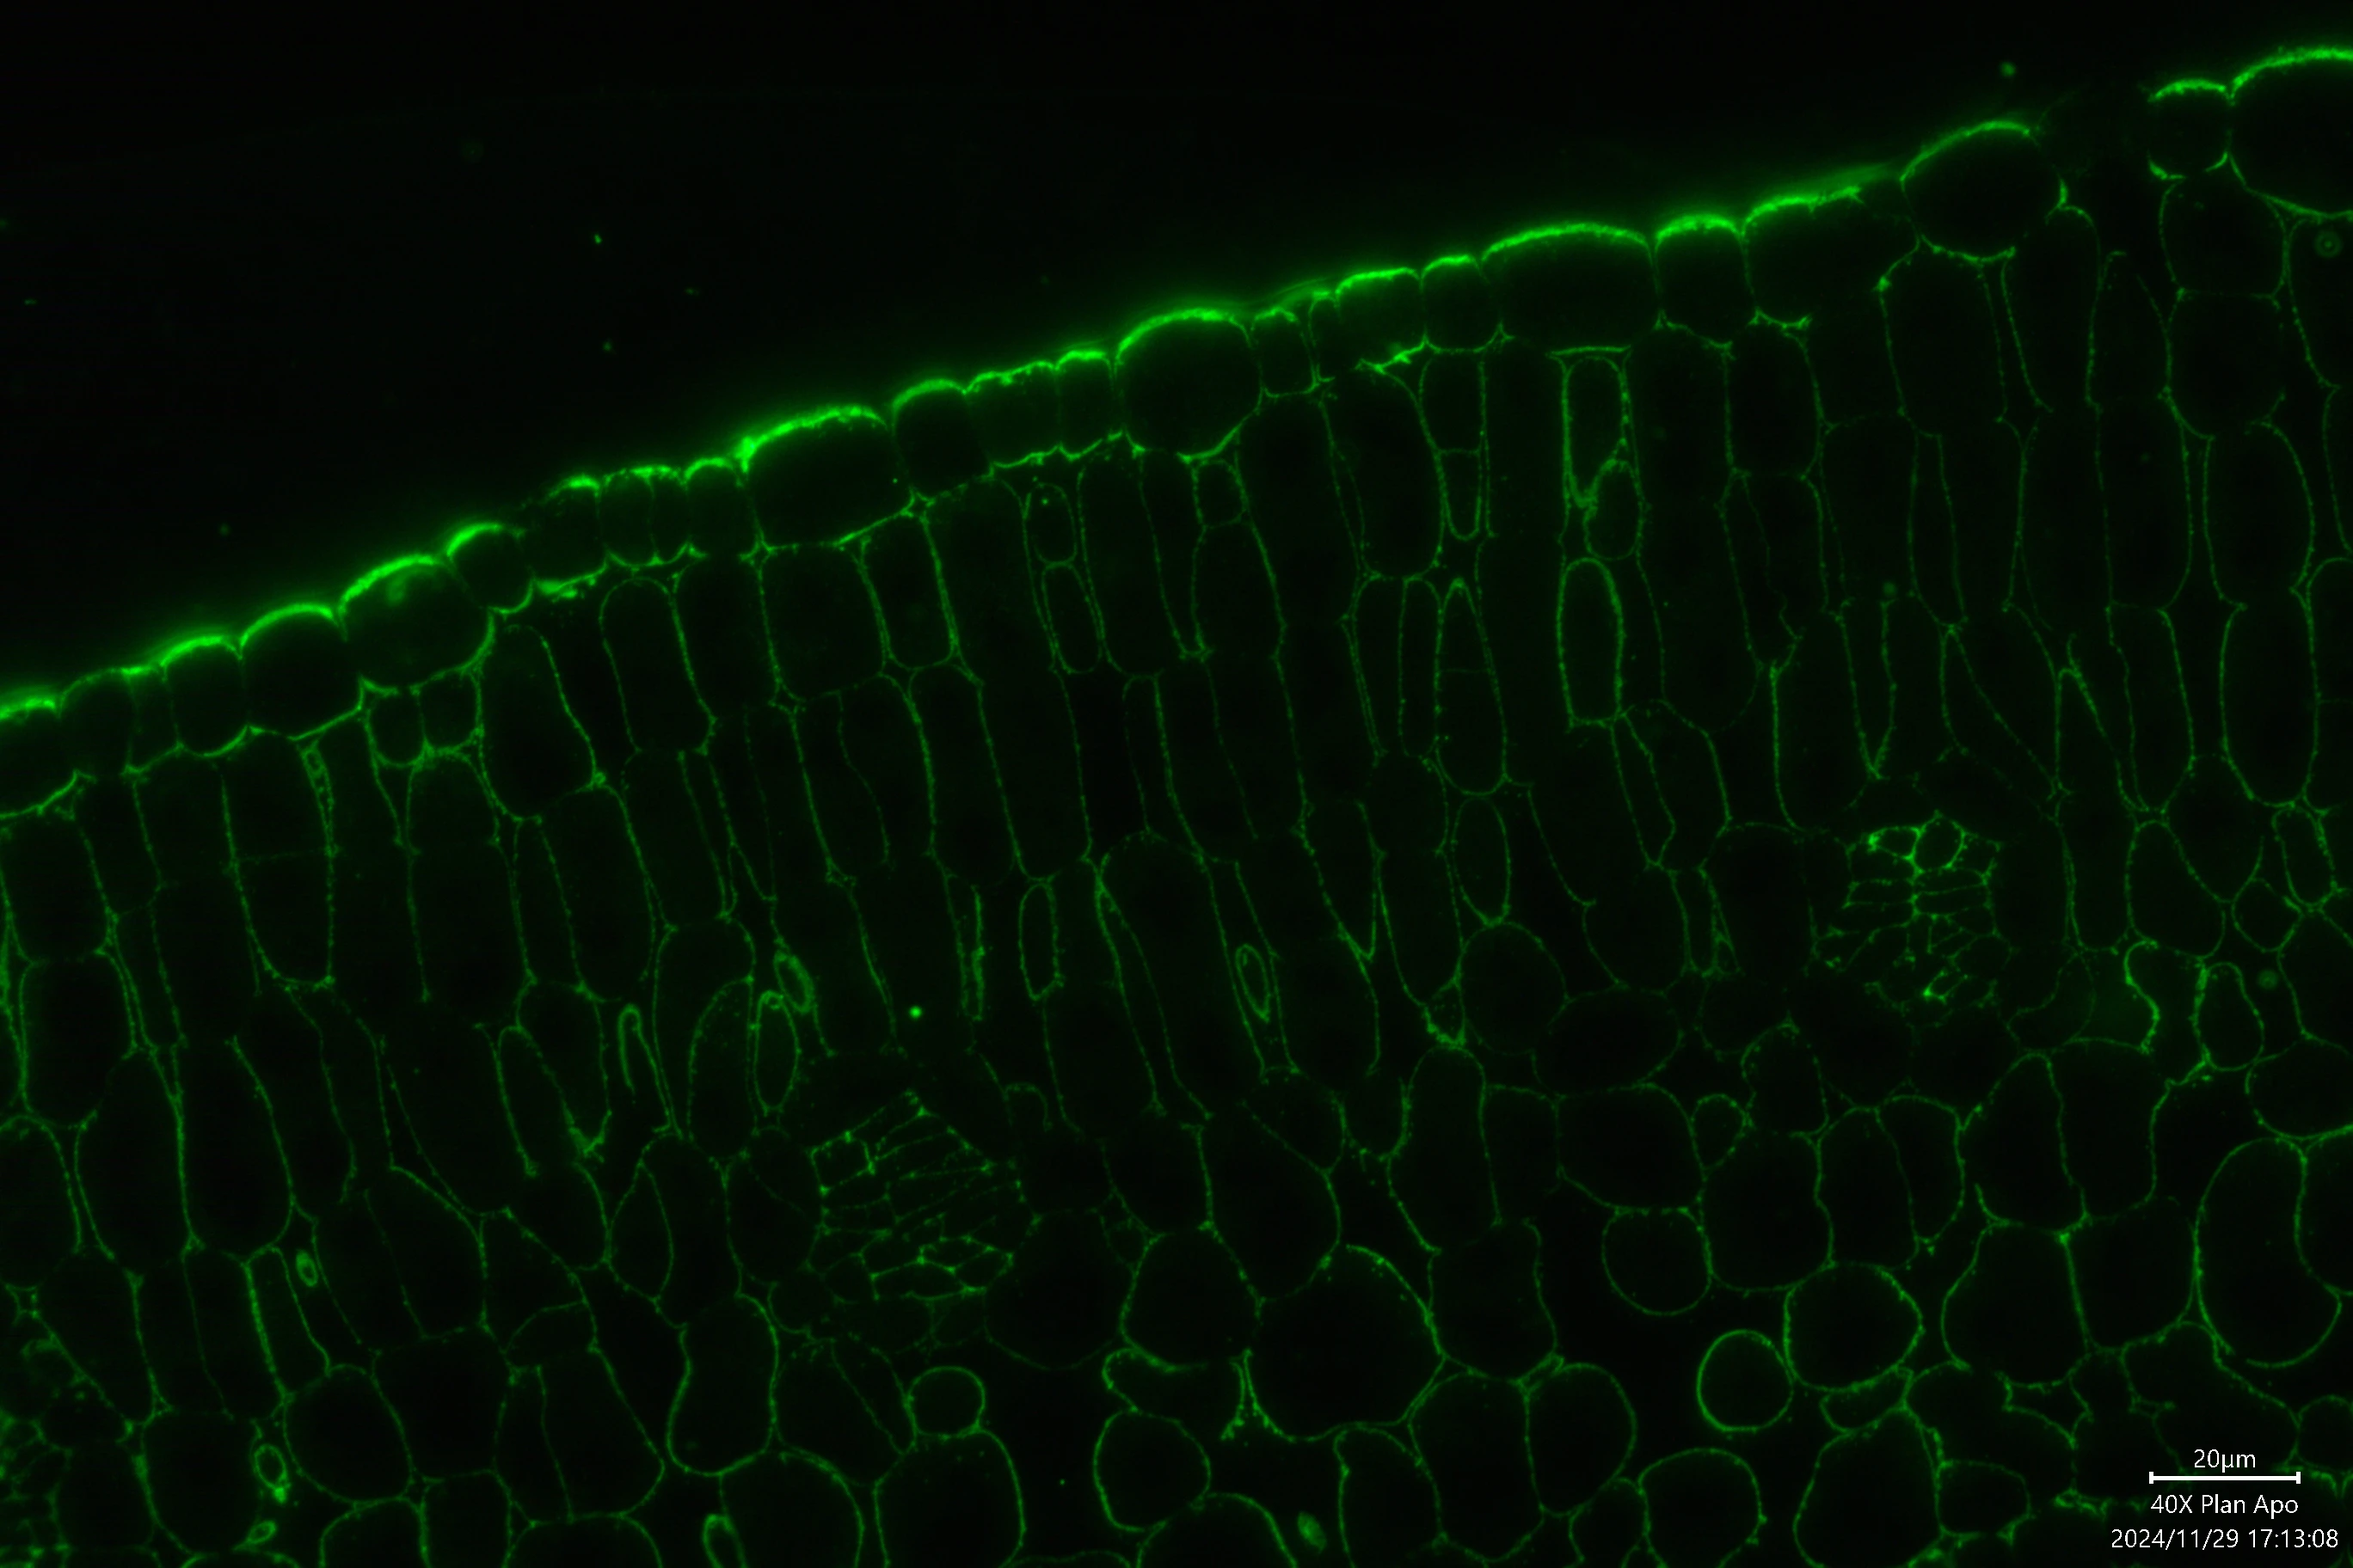
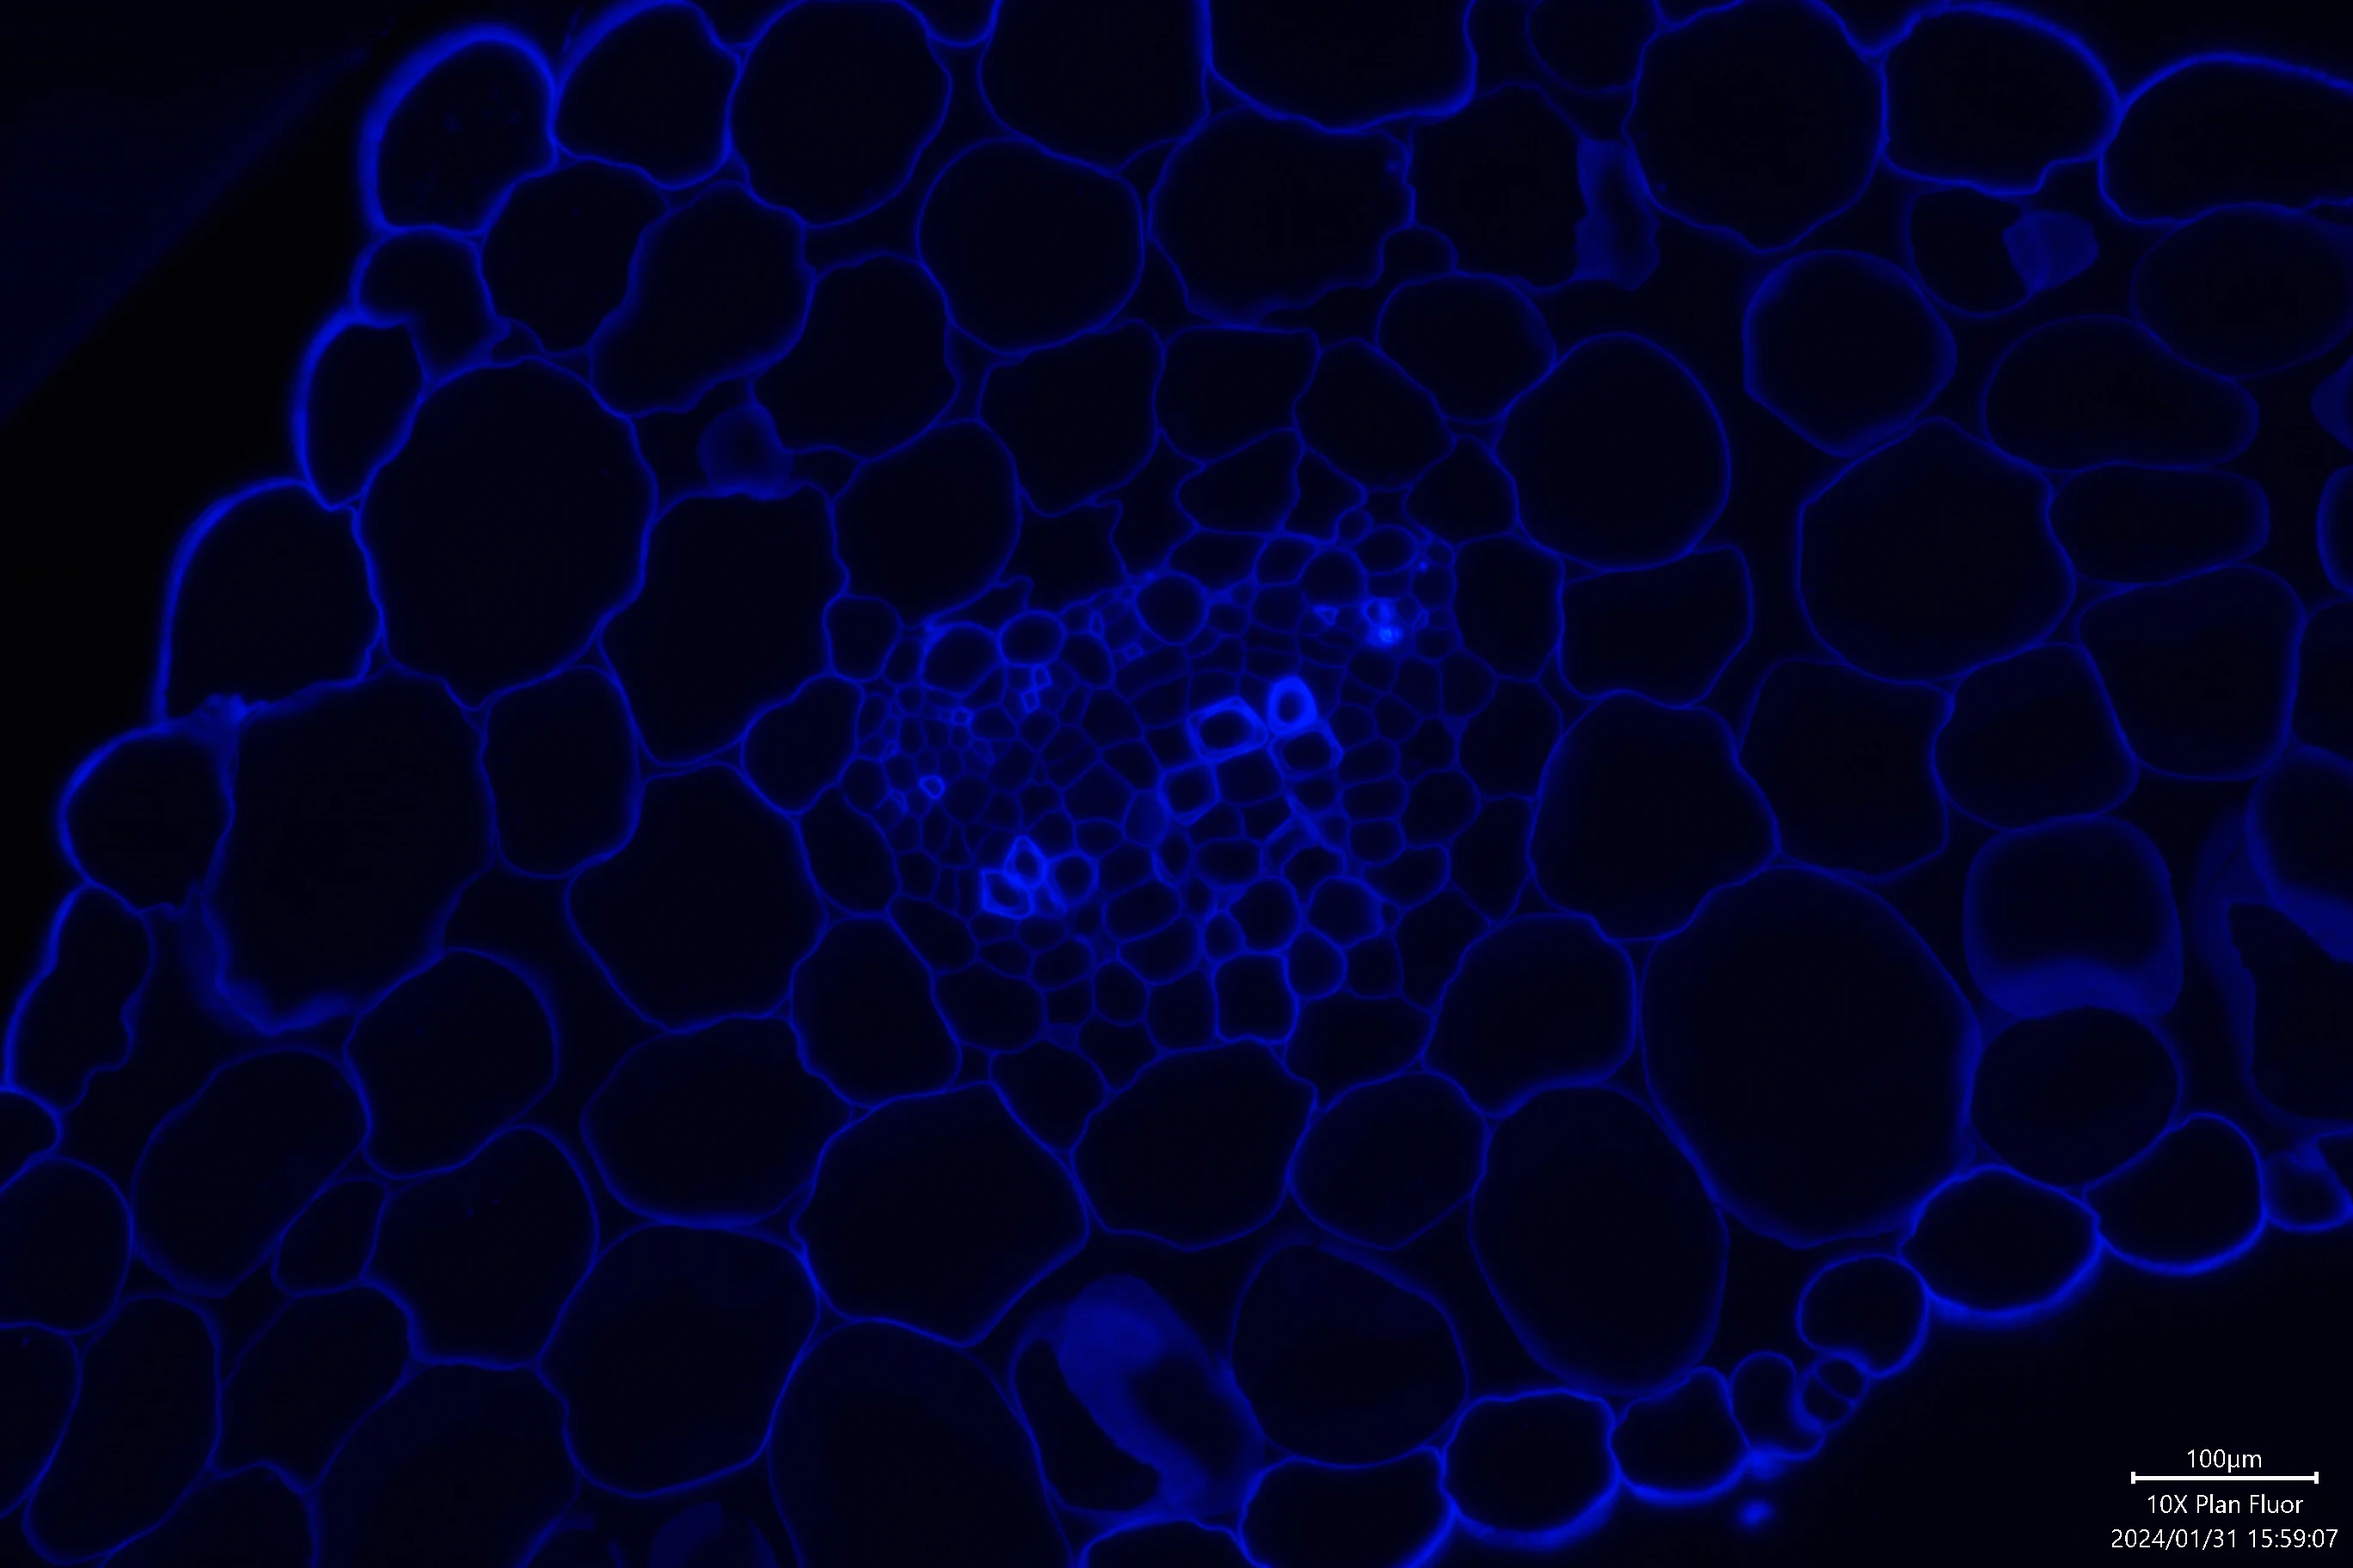
細胞形態解析ツール: 例の画像を、細胞壁がくっきり写った維管束のある横断切片（10倍）に替える

diff --git a/src/lib/cellshape-page.js b/src/lib/cellshape-page.js
@@ -19,7 +19,7 @@ const TEXT = en ? {
   loading: 'Loading the image…',
   scaledTiff: bits => `This is a ${bits}-bit image: brightness was scaled to 8 bits for display and analysis (0.05–99.95th percentile).`,
   tiffErrors: {bigtiff: 'BigTIFF files cannot be read. Save the image as an ordinary TIFF or PNG.', compression: 'This TIFF uses a compression that cannot be read here (e.g. JPEG). Save it uncompressed, with LZW, or as PNG.', bits: 'Only 8-, 16- and 32-bit TIFF images can be read.'},
-  exampleLoaded: e => `Example image loaded: a leaf cross-section, fluorescence, 40× objective. The scale (${e.barUm} µm = ${e.barPx} px) and a cell diameter are already set. Name and outline a region such as the palisade mesophyll (step 4).`,
+  exampleLoaded: e => `Example image loaded: a cross-section with a vascular bundle in the middle, fluorescence, 10× objective. The scale (${e.barUm} µm = ${e.barPx} px) and a cell diameter are already set. Name and outline a region (step 4).`,
   replace: 'Load a new image? The regions drawn on the current image will be discarded.',
   needImage: 'Choose an image first.',
   needScale: 'Set the scale first (step 2): trace the scale bar or type the pixel size.',
@@ -70,7 +70,7 @@ const TEXT = en ? {
   loading: '画像を読み込んでいます…',
   scaledTiff: bits => `${bits}ビットの画像なので、明るさを8ビットに変換して表示・解析します（0.05〜99.95パーセンタイルの範囲）。`,
   tiffErrors: {bigtiff: 'BigTIFF形式は読み込めません。通常のTIFFかPNGで保存し直してください。', compression: 'このTIFFの圧縮形式（JPEG圧縮など）は読み込めません。無圧縮・LZW圧縮のTIFFかPNGで保存し直してください。', bits: '8・16・32ビットのTIFFだけが読み込めます。'},
-  exampleLoaded: e => `例の画像（葉の横断切片の蛍光像、40倍対物レンズ）を読み込みました。スケール（${e.barUm} µm = ${e.barPx}ピクセル）と細胞の直径の目安は設定済みです。手順4で名前を付けて、柵状組織などの領域を囲んでみてください。`,
+  exampleLoaded: e => `例の画像（中央に維管束がある横断切片の蛍光像、10倍対物レンズ）を読み込みました。スケール（${e.barUm} µm = ${e.barPx}ピクセル）と細胞の直径の目安は設定済みです。手順4で名前を付けて、領域を囲んでみてください。`,
   replace: '新しい画像を読み込みますか？ 今の画像に描いた領域は消えます。',
   needImage: '先に画像を選んでください。',
   needScale: '先にスケールを決めてください（手順2）。スケールバーをなぞるか、1ピクセルの長さを入力します。',
@@ -377,7 +377,7 @@ $('example').addEventListener('click', async e => {
     const res = await fetch(button.dataset.src);
     if (!res.ok) throw new Error();
     const {barUm, barPx, diameter, faces} = button.dataset;
-    await loadFile(new File([await res.blob()], 'example-leaf-section.webp', {type: 'image/webp'}), {barUm: +barUm, barPx: +barPx, diameter: +diameter, faces});
+    await loadFile(new File([await res.blob()], 'example-section.webp', {type: 'image/webp'}), {barUm: +barUm, barPx: +barPx, diameter: +diameter, faces});
   } catch { message(TEXT.cannotRead); }
   button.disabled = false;
 });
